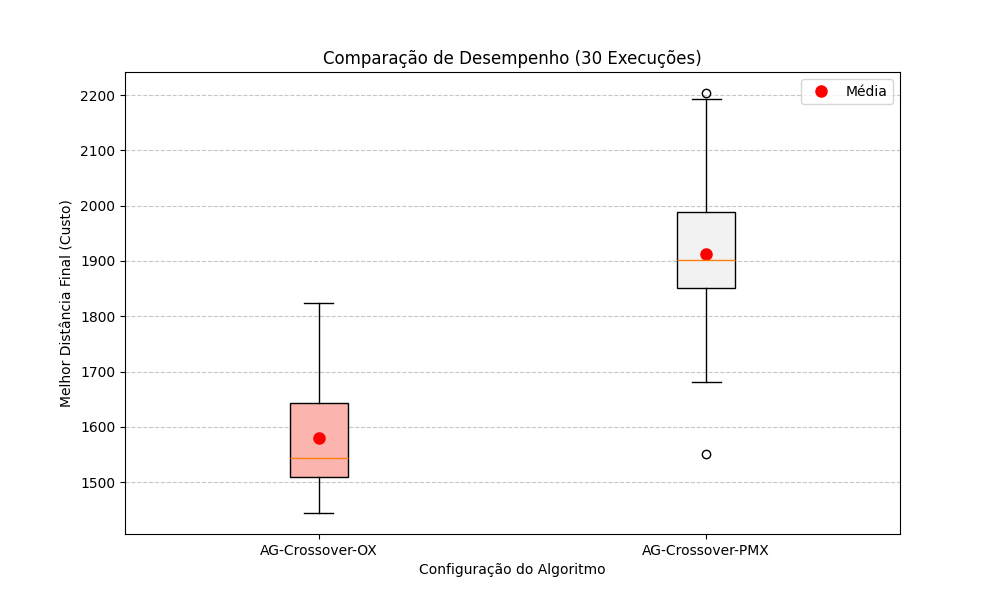
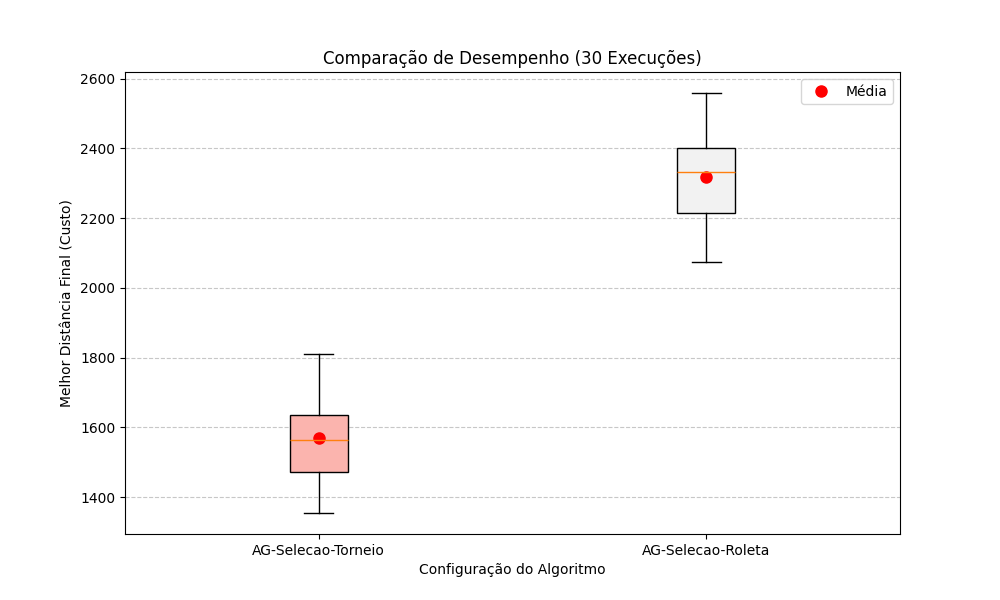
docs: Gera resultados e gráficos da Análise 2 (Seleção Torneio vs Roleta)

diff --git a/main.py b/main.py
@@ -24,28 +24,30 @@ TAMANHO_POPULACAO = 50         # Tamanho da população (AG) / N° de formigas (
 # --- Lista de Experimentos para Executar ---
 # (Este é o único bloco que você precisa mudar para cada análise)
 
-# Exemplo para Análise de Crossover (OX vs. PMX)
+# --- Lista de Experimentos para Executar ---
+
+# Análise 2: Comparação de Métodos de Seleção
 experimentos_para_rodar = [
     {
-        "nome": "AG-Crossover-OX",
+        "nome": "AG-Selecao-Torneio",
         "algoritmo": "AG",
         "params": {
-            "metodo_selecao": "torneio",
-            "metodo_mutacao": "inversao", # (Usando 'inversao' como padrão)
-            "taxa_elitismo": 0.05,
-            "taxa_mutacao": 0.01,
-            "metodo_crossover": "ox" # <-- USANDO OX
+            "metodo_selecao": "torneio", # <-- VARIÁVEL DE TESTE
+            "metodo_mutacao": "inversao",   # (Constante)
+            "taxa_elitismo": 0.05,          # (Constante)
+            "taxa_mutacao": 0.01,           # (Constante)
+            "metodo_crossover": "ox"        # (Constante)
         }
     },
     {
-        "nome": "AG-Crossover-PMX",
+        "nome": "AG-Selecao-Roleta",
         "algoritmo": "AG",
         "params": {
-            "metodo_selecao": "torneio",
-            "metodo_mutacao": "inversao", # (Usando 'inversao' como padrão)
-            "taxa_elitismo": 0.05,
-            "taxa_mutacao": 0.01,
-            "metodo_crossover": "pmx" # <-- USANDO PMX
+            "metodo_selecao": "roleta",  # <-- VARIÁVEL DE TESTE
+            "metodo_mutacao": "inversao",   # (Constante)
+            "taxa_elitismo": 0.05,          # (Constante)
+            "taxa_mutacao": 0.01,           # (Constante)
+            "metodo_crossover": "ox"        # (Constante)
         }
     }
 ]
